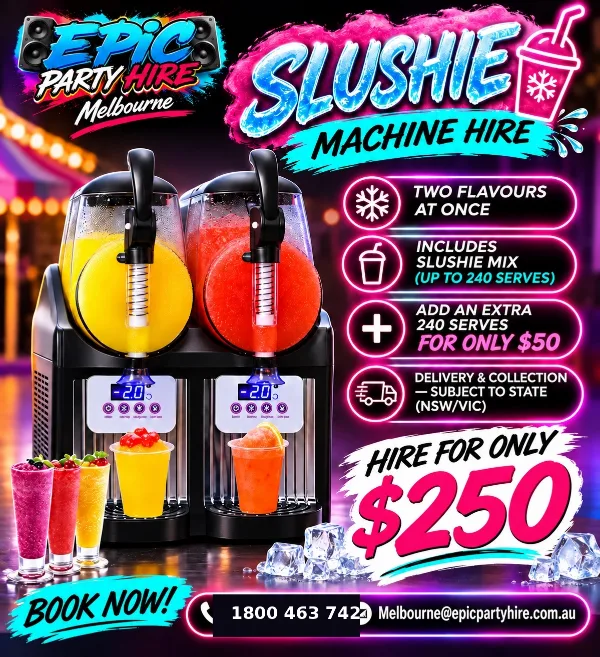
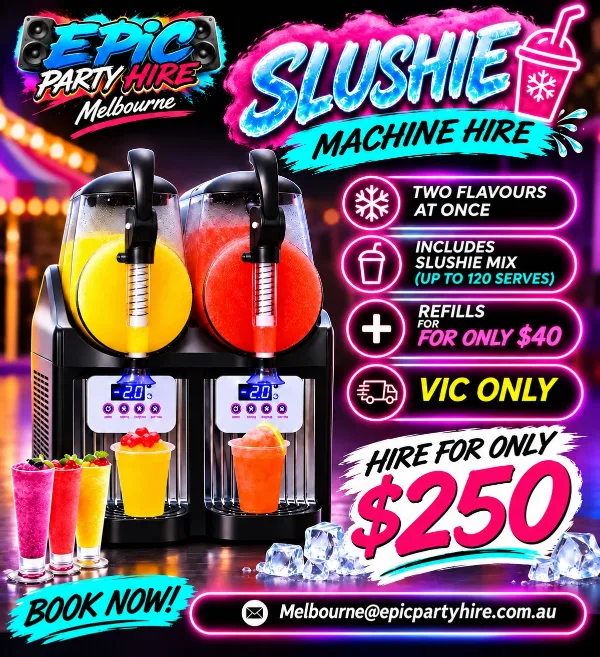
Photo booth flyer (VIC only, overnight); separate single, mini double and double slushie cards with new flyers

diff --git a/index.html b/index.html
@@ -131,7 +131,9 @@
 <div class="section-heading"><div><span class="section-kicker">PRICES AT A GLANCE</span><h2 id="extras-title">PRODUCT <em>PRICES.</em></h2><p>Hire any item on its own or add it to a package. Swipe across and tap an item for the full details.</p></div><div class="package-arrows"><button aria-label="Scroll products left" data-rail="product-rail" data-dir="-1" type="button">←</button><button aria-label="Scroll products right" data-rail="product-rail" data-dir="1" type="button">→</button></div></div>
 <div aria-label="Individual product hire prices" class="package-rail" id="product-rail" tabindex="0">
 <article class="deal-card product-card" data-product="photobooth"><button class="product-card__open" type="button" aria-label="View details and prices for Photo booth"><span class="deal-card__image"><img alt="Photo booth hire, EPIC Party Hire Melbourne" decoding="async" height="657" loading="lazy" src="assets/cards/photobooth.webp" width="600"/></span></button><div class="deal-card__body"><div class="deal-card__titleline"><h3>Photo booth</h3><span class="deal-card__price">$700</span></div><p>Unlimited photos, prints and a prop box. Overnight hire, VIC only.</p><div class="deal-card__actions"><button class="deal-card__button deal-card__button--primary product-card__details-btn" type="button">VIEW DETAILS <span>+</span></button><button aria-label="Select this item and go to the enquiry form" class="deal-card__button deal-card__button--select choose-deal" data-item="Photo booth hire" type="button">SELECT ITEM <span>✓</span></button></div></div><div class="product-card__more" hidden=""><img alt="Photo booth hire flyer with prices" data-src="assets/photobooth.webp" height="1312" width="1199"/><h3>Photo booth</h3><p class="product-modal__spiel">Our photo booth is the heart of the party. Guests jump in, grab a prop and walk away with instant photo strips, and you keep every shot.</p><table class="product-modal__prices"><caption>Prices</caption><tbody><tr><th scope="row">Epic Overnight</th><td>$700</td></tr><tr><th scope="row">Photo album add-on</th><td>+$50</td></tr></tbody></table><h4>What's included</h4><ul><li>Unlimited photos</li><li>Novelty prop box</li><li>Dual strip print-outs</li><li>Custom logo or message on your photos</li><li>Customised photo strip</li><li>USB of all images</li><li>Delivery and collection, VIC only</li></ul><span class="product-modal__item" data-item="Photo booth hire" data-kind="product"></span></div></article>
-<article class="deal-card product-card" data-product="slushie"><button class="product-card__open" type="button" aria-label="View details and prices for Slushie machines"><span class="deal-card__image"><img alt="Slushie machine hire, EPIC Party Hire Melbourne" decoding="async" height="657" loading="lazy" src="assets/cards/slushie.webp" width="600"/></span></button><div class="deal-card__body"><div class="deal-card__titleline"><h3>Slushie machines</h3><span class="deal-card__price">From $180</span></div><p>Single, mini double or double machine. Slushie mix included. VIC only.</p><div class="deal-card__actions"><button class="deal-card__button deal-card__button--primary product-card__details-btn" type="button">VIEW DETAILS <span>+</span></button><button aria-label="Select this item and go to the enquiry form" class="deal-card__button deal-card__button--select choose-deal" data-item="Slushie machine hire" type="button">SELECT ITEM <span>✓</span></button></div></div><div class="product-card__more" hidden=""><img alt="Slushie machine hire flyer with prices" data-src="assets/slushie.webp" height="1312" width="1199"/><h3>Slushie machines</h3><p class="product-modal__spiel">Ice-cold slushies on tap. Pick a single machine for smaller parties, or a mini double or double machine to run two flavours at once.</p><table class="product-modal__prices"><caption>Prices</caption><tbody><tr><th scope="row">Single slushie machine <small>(serves 60)</small></th><td>$180</td></tr><tr><th scope="row">Mini double slushie machine <small>(serves 60)</small></th><td>$200</td></tr><tr><th scope="row">Double slushie machine <small>(up to 120 serves)</small></th><td>$250</td></tr><tr><th scope="row">Slushie mix refills</th><td>+$40</td></tr></tbody></table><h4>What's included</h4><ul><li>Slushie mix included with every machine</li><li>Mini double and double machines run two flavours at once</li><li>Refills available for $40</li><li>Delivery and collection, VIC only</li></ul><span class="product-modal__item" data-item="Slushie machine hire" data-kind="product"></span></div></article>
+<article class="deal-card product-card" data-product="slushie-single"><button class="product-card__open" type="button" aria-label="View details and prices for Single slushie machine"><span class="deal-card__image"><img alt="Single slushie machine hire, EPIC Party Hire Melbourne" decoding="async" height="600" loading="lazy" src="assets/cards/slushie-single.webp" width="600"/></span></button><div class="deal-card__body"><div class="deal-card__titleline"><h3>Single slushie machine</h3><span class="deal-card__price">$180</span></div><p>One flavour, slushie mix for 60 serves. VIC only.</p><div class="deal-card__actions"><button class="deal-card__button deal-card__button--primary product-card__details-btn" type="button">VIEW DETAILS <span>+</span></button><button aria-label="Select this item and go to the enquiry form" class="deal-card__button deal-card__button--select choose-deal" data-item="Single slushie machine ($180)" type="button">SELECT ITEM <span>✓</span></button></div></div><div class="product-card__more" hidden=""><img alt="Single slushie machine hire flyer with prices" data-src="assets/slushie-single.webp" height="1254" width="1254"/><h3>Single slushie machine</h3><p class="product-modal__spiel">Perfect for smaller parties. One bowl of ice-cold slushie with enough mix for 60 serves.</p><table class="product-modal__prices"><caption>Prices</caption><tbody><tr><th scope="row">Single slushie machine <small>(serves 60)</small></th><td>$180</td></tr><tr><th scope="row">Slushie mix refill</th><td>+$40</td></tr></tbody></table><h4>What's included</h4><ul><li>Single bowl slushie machine</li><li>Slushie mix included (serves 60)</li><li>Refills available for $40</li><li>Delivery and collection, VIC only</li></ul><span class="product-modal__item" data-item="Single slushie machine ($180)" data-kind="product"></span></div></article>
+<article class="deal-card product-card" data-product="slushie-mini"><button class="product-card__open" type="button" aria-label="View details and prices for Mini double slushie machine"><span class="deal-card__image"><img alt="Mini double slushie machine hire, EPIC Party Hire Melbourne" decoding="async" height="657" loading="lazy" src="assets/cards/slushie-mini.webp" width="600"/></span></button><div class="deal-card__body"><div class="deal-card__titleline"><h3>Mini double slushie machine</h3><span class="deal-card__price">$200</span></div><p>Two flavours in a compact machine, 60 serves. VIC only.</p><div class="deal-card__actions"><button class="deal-card__button deal-card__button--primary product-card__details-btn" type="button">VIEW DETAILS <span>+</span></button><button aria-label="Select this item and go to the enquiry form" class="deal-card__button deal-card__button--select choose-deal" data-item="Mini double slushie machine ($200)" type="button">SELECT ITEM <span>✓</span></button></div></div><div class="product-card__more" hidden=""><img alt="Mini double slushie machine hire flyer with prices" data-src="assets/slushie-mini.webp" height="1312" width="1199"/><h3>Mini double slushie machine</h3><p class="product-modal__spiel">Two flavours in a compact double-bowl machine. Great for kids parties and backyard gatherings.</p><table class="product-modal__prices"><caption>Prices</caption><tbody><tr><th scope="row">Mini double slushie machine <small>(serves 60)</small></th><td>$200</td></tr></tbody></table><h4>What's included</h4><ul><li>Double bowl mini slushie machine</li><li>Two flavours at once</li><li>Slushie mix included (serves 60)</li><li>Delivery and collection, VIC only</li></ul><span class="product-modal__item" data-item="Mini double slushie machine ($200)" data-kind="product"></span></div></article>
+<article class="deal-card product-card" data-product="slushie"><button class="product-card__open" type="button" aria-label="View details and prices for Double slushie machine"><span class="deal-card__image"><img alt="Double slushie machine hire, EPIC Party Hire Melbourne" decoding="async" height="657" loading="lazy" src="assets/cards/slushie.webp" width="600"/></span></button><div class="deal-card__body"><div class="deal-card__titleline"><h3>Double slushie machine</h3><span class="deal-card__price">$250</span></div><p>Two flavours at once, up to 120 serves. VIC only.</p><div class="deal-card__actions"><button class="deal-card__button deal-card__button--primary product-card__details-btn" type="button">VIEW DETAILS <span>+</span></button><button aria-label="Select this item and go to the enquiry form" class="deal-card__button deal-card__button--select choose-deal" data-item="Double slushie machine ($250)" type="button">SELECT ITEM <span>✓</span></button></div></div><div class="product-card__more" hidden=""><img alt="Double slushie machine hire flyer with prices" data-src="assets/slushie.webp" height="1312" width="1199"/><h3>Double slushie machine</h3><p class="product-modal__spiel">Our big twin-bowl machine. Two flavours on tap all night, so kids and grown-ups can mix and match.</p><table class="product-modal__prices"><caption>Prices</caption><tbody><tr><th scope="row">Double slushie machine <small>(up to 120 serves)</small></th><td>$250</td></tr><tr><th scope="row">Slushie mix refill</th><td>+$40</td></tr></tbody></table><h4>What's included</h4><ul><li>Twin-bowl slushie machine</li><li>Two flavours at once</li><li>Slushie mix included (up to 120 serves)</li><li>Refills available for $40</li><li>Delivery and collection, VIC only</li></ul><span class="product-modal__item" data-item="Double slushie machine ($250)" data-kind="product"></span></div></article>
 <article class="deal-card product-card" data-product="popcorn"><button class="product-card__open" type="button" aria-label="View details and prices for Popcorn machine"><span class="deal-card__image"><img alt="Popcorn machine hire, EPIC Party Hire Melbourne" decoding="async" height="657" loading="lazy" src="assets/cards/popcorn.webp" width="600"/></span></button><div class="deal-card__body"><div class="deal-card__titleline"><h3>Popcorn machine</h3><span class="deal-card__price">$200</span></div><p>Classic red cart machine with everything for 150 serves.</p><div class="deal-card__actions"><button class="deal-card__button deal-card__button--primary product-card__details-btn" type="button">VIEW DETAILS <span>+</span></button><button aria-label="Select this item and go to the enquiry form" class="deal-card__button deal-card__button--select choose-deal" data-item="Popcorn machine hire" type="button">SELECT ITEM <span>✓</span></button></div></div><div class="product-card__more" hidden=""><img alt="Popcorn machine hire flyer with prices" data-src="assets/popcorn.webp" height="1312" width="1199"/><h3>Popcorn machine</h3><p class="product-modal__spiel">The smell of fresh popcorn instantly makes it a party. Our classic red cart comes with everything you need, ready to pop.</p><table class="product-modal__prices"><caption>Prices</caption><tbody><tr><th scope="row">Popcorn machine hire</th><td>$200</td></tr><tr><th scope="row">Extra 150 serves</th><td>+$50</td></tr></tbody></table><h4>What's included</h4><ul><li>150 serves included</li><li>All ingredients: corn kernels, butter, salt and oil</li><li>Serving bags and cups</li><li>Delivery and collection (subject to location)</li></ul><span class="product-modal__item" data-item="Popcorn machine hire" data-kind="product"></span></div></article>
 <article class="deal-card product-card" data-product="fairy-floss"><button class="product-card__open" type="button" aria-label="View details and prices for Fairy floss machine"><span class="deal-card__image"><img alt="Fairy floss machine hire, EPIC Party Hire Melbourne" decoding="async" height="657" loading="lazy" src="assets/cards/fairy-floss.webp" width="600"/></span></button><div class="deal-card__body"><div class="deal-card__titleline"><h3>Fairy floss machine</h3><span class="deal-card__price">$200</span></div><p>Pink cart machine with ingredients for 150 serves.</p><div class="deal-card__actions"><button class="deal-card__button deal-card__button--primary product-card__details-btn" type="button">VIEW DETAILS <span>+</span></button><button aria-label="Select this item and go to the enquiry form" class="deal-card__button deal-card__button--select choose-deal" data-item="Fairy floss machine hire" type="button">SELECT ITEM <span>✓</span></button></div></div><div class="product-card__more" hidden=""><img alt="Fairy floss machine hire flyer with prices" data-src="assets/fairy-floss.webp" height="1312" width="1199"/><h3>Fairy floss machine</h3><p class="product-modal__spiel">Sweet, fluffy and always a crowd favourite. A hit at kids parties, carnivals and dessert tables.</p><table class="product-modal__prices"><caption>Prices</caption><tbody><tr><th scope="row">Fairy floss machine hire</th><td>$200</td></tr><tr><th scope="row">Extra 150 serves</th><td>+$50</td></tr></tbody></table><h4>What's included</h4><ul><li>Ingredients for up to 150 serves</li><li>Pink fairy floss cart</li><li>Delivery and collection (subject to location)</li></ul><span class="product-modal__item" data-item="Fairy floss machine hire" data-kind="product"></span></div></article>
 <article class="deal-card product-card" data-product="karaoke"><button class="product-card__open" type="button" aria-label="View details and prices for Karaoke jukebox"><span class="deal-card__image"><img alt="Karaoke jukebox hire, EPIC Party Hire Melbourne" decoding="async" height="657" loading="lazy" src="assets/cards/karaoke.webp" width="600"/></span></button><div class="deal-card__body"><div class="deal-card__titleline"><h3>Karaoke jukebox</h3><span class="deal-card__price">From $200</span></div><p>5000+ video tracks, 2 microphones and an LED disco light.</p><div class="deal-card__actions"><button class="deal-card__button deal-card__button--primary product-card__details-btn" type="button">VIEW DETAILS <span>+</span></button><button aria-label="Select this item and go to the enquiry form" class="deal-card__button deal-card__button--select choose-deal" data-item="Karaoke machine hire" type="button">SELECT ITEM <span>✓</span></button></div></div><div class="product-card__more" hidden=""><img alt="Karaoke jukebox hire flyer with prices" data-src="assets/karaoke.webp" height="1312" width="1199"/><h3>Karaoke jukebox</h3><p class="product-modal__spiel">Turn any room into a stage. Thousands of songs, two mics and a disco light. All you need is someone brave enough to go first.</p><table class="product-modal__prices"><caption>Prices</caption><tbody><tr><th scope="row">Karaoke jukebox hire</th><td>From $200</td></tr></tbody></table><h4>What's included</h4><ul><li>5000+ video tracks and 600+ karaoke tracks</li><li>New Top 40 hits loaded every quarter</li><li>2 microphones</li><li>LED disco light</li><li>Delivery and collection (subject to location)</li></ul><span class="product-modal__item" data-item="Karaoke machine hire" data-kind="product"></span></div></article>
